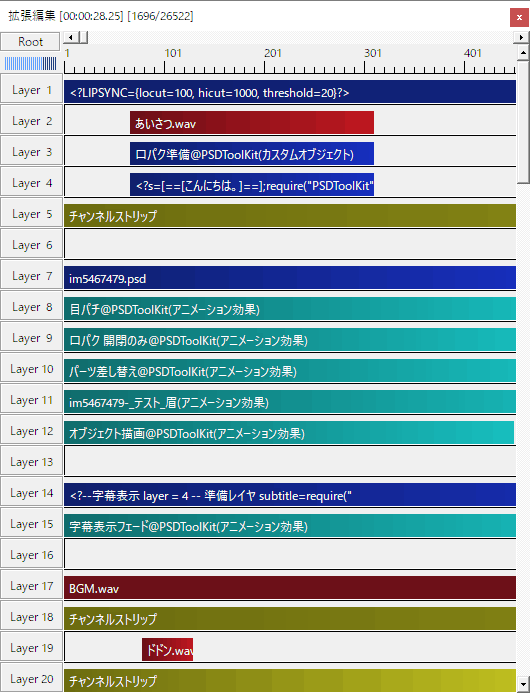
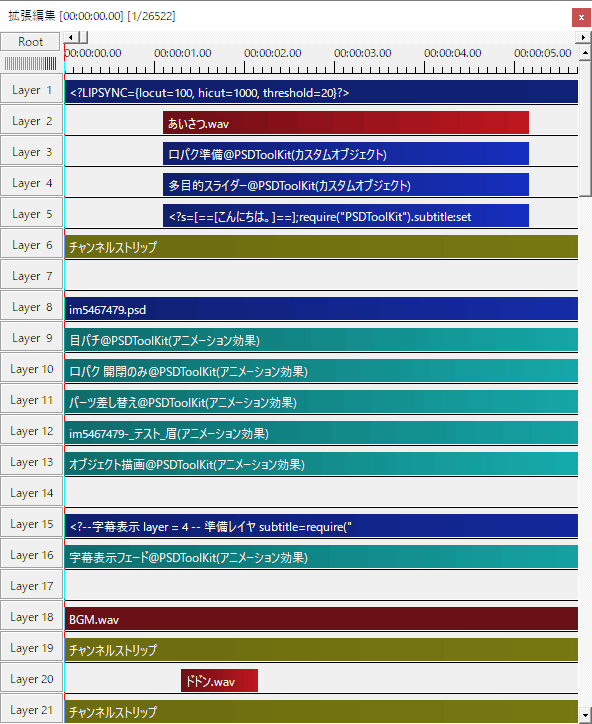
update docs

diff --git a/src/docs/howtouse.md b/src/docs/howtouse.md
@@ -11,23 +11,24 @@ PSDToolKit を活用すると、概ねこのような機能を使えるように
 
 レイヤー|説明
 ---|---
-Layer 1|[口パク準備の設定値を上書き](audio.md#自動作成される_口パク準備_のパラメーターの初期設定を変更する)しています。
-Layer 2|音声ファイルと口パク準備と字幕準備を[一回のドラッグ＆ドロップで配置](audio.md#字幕準備の使い方)しています。<br>`口パク準備` と `字幕準備` で準備されたデータを使う際は `準備レイヤ` の指定が必要になるので、上の方に配置すると後でレイヤー位置の変更が必要になることが少なく便利です。
-Layer 3|口パク用データを準備するための [`口パク準備`](audio.md#音声に合わせた口パク（リップシンク）) オブジェクトです。
-Layer 4|字幕用データを準備するための [`字幕準備`](audio.md#音声に合わせた字幕表示) オブジェクトです。
-Layer 5|音声の音量などを調整するための [`チャンネルストリップ`](audio.md#チャンネルストリップ) です。
-Layer 6|整理用の余白です。
-Layer 7|[`PSD ファイルを読み込んだオブジェクト`](psd.md#PSD_ファイルの読み込み)です。
-Layer 8|瞬きを行うための [`目パチ`](faview.md#目パチ（瞬き）を設定する) という `アニメーション効果` です。
-Layer 9|リップシンクを行うための [`口パク 開閉のみ`](faview.md#口パク_開閉のみ) という `アニメーション効果` です。
-Layer 10|表情などを拡張編集のスライダーで変更するための [`パーツ差し替え`](faview.md#パーツ差し替え) という `アニメーション効果` です。
-Layer 11|表情などをより柔軟に変更するために[スライダーのエクスポート](faview.md#スライダーのエクスポート)を行った `アニメーション効果` です。<br>スライダーの中には[目パチなどのアニメーションを割り当てる](faview.md#スライダーに目パチを割り当てる)こともできます。
-Layer 12|高度な描画機能を利用するために必要な [`オブジェクト描画`](faview.md#オブジェクト描画について) です。
-Layer 13|余白、いいよね。
-Layer 14|字幕を表示するための [`字幕表示`](audio.md#字幕準備で設定された字幕を表示する) です。
-Layer 15|字幕でテキストアニメーションを行う [`字幕表示フェード`](audio.md#字幕表示_でのアニメーション効果) です。
-Layer 16|聞かなくてもわかるね、余白です。
-Layer 17|BGM のオーディオファイルです。
-Layer 18|BGM を調整するための [`チャンネルストリップ`](audio.md#チャンネルストリップ) です。
-Layer 19|定番の効果音、ドドンを自作しました。
-Layer 20|効果音を調整するための [`チャンネルストリップ`](audio.md#チャンネルストリップ) です。
+Layer  1|[口パク準備の設定値を上書き](audio.md#自動作成される_口パク準備_のパラメーターの初期設定を変更する)しています。
+Layer  2|音声ファイルと口パク準備と字幕準備を[一回のドラッグ＆ドロップで配置](audio.md#字幕準備の使い方)しています。<br>`口パク準備` と `字幕準備` で準備されたデータを使う際は `準備レイヤ` の指定が必要になるので、上の方に配置すると後でレイヤー位置の変更が必要になることが少なく便利です。
+Layer  3|口パク用データを準備するための [`口パク準備`](audio.md#音声に合わせた口パク（リップシンク）) オブジェクトです。
+Layer  4|画像のレイヤー構成をコントロールするための [`多目的スライダー`](faview.md#多目的スライダー) オブジェクトです。
+Layer  5|字幕用データを準備するための [`字幕準備`](audio.md#音声に合わせた字幕表示) オブジェクトです。
+Layer  6|音声の音量などを調整するための [`チャンネルストリップ`](audio.md#チャンネルストリップ) です。
+Layer  7|整理用の余白です。
+Layer  8|[`PSD ファイルを読み込んだオブジェクト`](psd.md#PSD_ファイルの読み込み)です。
+Layer  9|瞬きを行うための [`目パチ`](faview.md#目パチ（瞬き）を設定する) という `アニメーション効果` です。
+Layer 10|リップシンクを行うための [`口パク 開閉のみ`](faview.md#口パク_開閉のみ) という `アニメーション効果` です。
+Layer 11|表情などを拡張編集のスライダーで変更するための [`パーツ差し替え`](faview.md#パーツ差し替え) という `アニメーション効果` です。
+Layer 12|表情などをより柔軟に変更するために[スライダーのエクスポート](faview.md#スライダーのエクスポート)を行った `アニメーション効果` です。<br>スライダーの中には[目パチなどのアニメーションを割り当てる](faview.md#スライダーに目パチを割り当てる)こともできます。
+Layer 13|高度な描画機能を利用するために必要な [`オブジェクト描画`](faview.md#オブジェクト描画について) です。
+Layer 14|余白、いいよね。
+Layer 15|字幕を表示するための [`字幕表示`](audio.md#字幕準備で設定された字幕を表示する) です。
+Layer 16|字幕でテキストアニメーションを行う [`字幕表示フェード`](audio.md#字幕表示_でのアニメーション効果) です。
+Layer 17|聞かなくてもわかるね、余白です。
+Layer 18|BGM のオーディオファイルです。
+Layer 19|BGM を調整するための [`チャンネルストリップ`](audio.md#チャンネルストリップ) です。
+Layer 20|定番の効果音、ドドンを自作しました。
+Layer 21|効果音を調整するための [`チャンネルストリップ`](audio.md#チャンネルストリップ) です。

diff --git a/src/docs/faview.md b/src/docs/faview.md
@@ -554,6 +554,63 @@ PSD:addstate(values[obj.track0])
 
 もちろん `口パク準備` 以外のパラメーターも外部から指定できるようにしても便利ですし、`LipSyncSimple` を作成するコード自体をスクリプト制御側に移動すれば、煩雑になる代わりに柔軟に対応できるようになります。
 
+# 多目的スライダー
+
+`多目的スライダー` は[パーツ差し替え](#パーツ差し替え)や[スライダーのエクスポート](#スライダーのエクスポート)で用意した「パーツ切り替え用スライダー」を操作するための、もうひとつのスライダーです。
+
+これを使うと、例えば `喋っている間だけパーツを変更する` という操作が簡単に行えるようになります。
+
+また、`多目的スライダー` を使うと[`字幕表示` でのアニメーション効果](audio.md#字幕表示_でのアニメーション効果)と同じように `subobj.time`/`subobj.frame`/`subobj.totaltime`/`subobj.totalframe` を使ったアニメーション効果が適用できるようになるため、アニメーション効果スクリプトを用意することで `喋る瞬間に跳ねる` などの効果を追加することができるようになります。
+
+## 制限事項
+
+`多目的スライダー` には個々の項目名は表示されません。  
+また、選択可能な項目数は予め 0-100 で固定になっていますが、これらはバグではなく仕様です。
+
+これは拡張編集側の仕様によりスライダーの名前や項目数を柔軟に変更するような仕組みが存在しないことに起因する制限事項であり、根本的な解決が行われない限りこの制限が撤廃されることはありません。
+
+## 使い方
+
+`多目的スライダー` は `口パク準備` や `字幕準備` と同じように「予め準備したデータをあとで使う」という流れで使用します。
+
+### 1. スライダーの設置
+
+`多目的スライダー` をタイムラインに挿入するには大きく分けて以下の２つの方法があります。
+
+1. 拡張編集の右クリックメニューから`メディアオブジェクトの追加`→`PSDToolKit`→`多目的スライダー` を選んで挿入
+2. [ドラッグで口パク準備を追加](audio.md#口パク準備を効率よく作成するには)する際に自動で追加されるように[設定を変更する](setting.md#P.wav_mpslider)
+
+1 の方法は音声との同期なしで切り替えるとき、2 の方法は音声と合わせて切り替えるときに有用です。
+
+上記のいずれかの方法で `多目的スライダー` をタイムラインに追加すると、以下のようなものが現れます。
+
+![`多目的スライダー` のプロパティ](assets/faview-mpslider.png)
+
+多目的スライダーは一番上に`カスタムオブジェクト`、それ以降は `アニメーション効果` で構成されます。
+
+スライダーの数が足りなければ、必要に応じて更に `アニメーション効果` を追加しても構いません。  
+1 の方法で使う場合は自分でエイリアスを保存して、2 の方法で使う場合は設定を変更することで初期のスライダー個数を変更することが可能です。
+
+### 2. PSDファイル側で使用準備
+
+多目的スライダーを使用したい PSD ファイルのテキスト入力欄に、以下のように `多目的スライダー` を設置しているレイヤー番号を指定します。
+
+```text
+<?mpslider=3?>
+```
+
+![`多目的スライダー` のレイヤー番号の指定例](assets/faview-mpslider-psd.png)
+
+このようにすることでオブジェクトに `多目的スライダー` が割り当てられ、必要に応じて参照されるようになります。
+
+### 3. スライダーの値を変える
+
+結びつけが完了すると、[パーツ差し替え](#パーツ差し替え)や[スライダーのエクスポート](#スライダーのエクスポート)で用意した「パーツ切り替え用スライダー」の登場順に、上から順に `多目的スライダー` で操作できるようになります。
+
+つまり、`パーツ差し替え` を1つだけ使っているなら `多目的スライダー` の一番上のスライダーで操作できるようになり、`スライダーのエクスポート` で出力したスクリプトを書き換えてスライダーを4つ使えるようにしている場合は、4つのスライダーでそれぞれを操作できるようになります。
+
+スライダーの値は `0` の時は `上書きしない`、`1`～`100` は `その番号で上書き` になります。
+
 # 項目名の一部が文字化けしている？
 
 アニメーション効果に割り当てたりエクスポートした項目名が、
